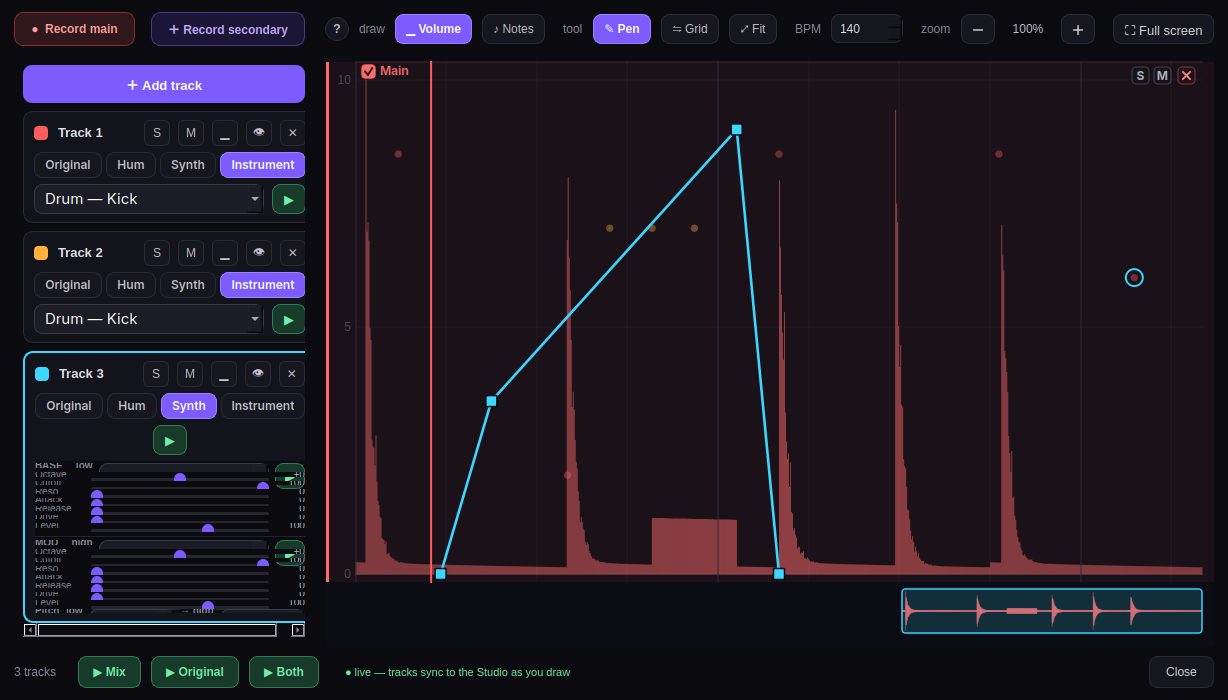
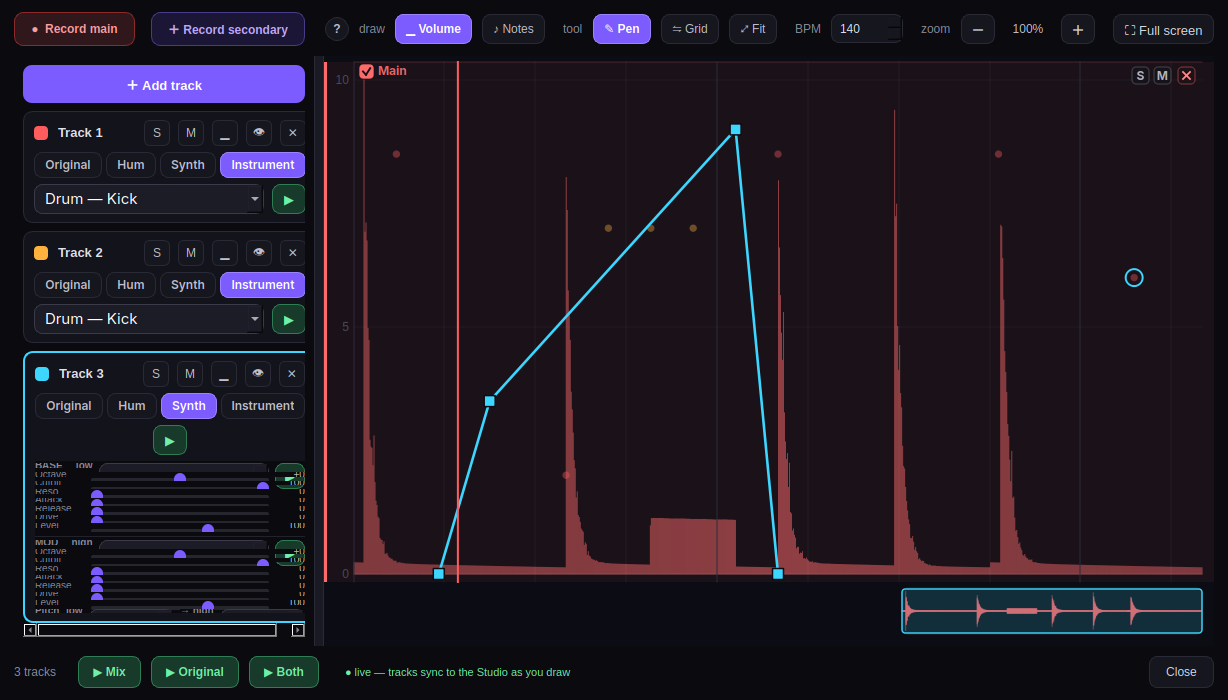
Draggable dividers: resize the track list vs canvas on both windows
The separator's track-list/soundwave divider was a fixed 300px that cropped the wave;
the Studio's header column was likewise fixed. Both are now DRAGGABLE splitters:
- Separator: track list ↔ canvas is a QSplitter (grab the handle to widen either side).
- Studio: the header column ↔ timeline is a horizontal splitter of two stacked panes
  (corner+headers | ruler+timeline), so dragging resizes both rows together and the
  ruler stays aligned with the timeline. Headers/CornerBox no longer fixed-width;
  TrackHeaders already reflows to its width.

Claude-Session: https://claude.ai/code/session_01Nx2xvCEFwoY9ya5yMQUNJ7

diff --git a/desktop/beatstudio/mainwindow.py b/desktop/beatstudio/mainwindow.py
@@ -56,7 +56,7 @@ _MYSOUNDS_DIR = os.path.join(_HERE, "mysounds")
 class CornerBox(QFrame):
     def __init__(self):
         super().__init__()
-        self.setFixedSize(theme.HEADER_W, theme.RULER_H)
+        self.setFixedHeight(theme.RULER_H)      # width follows the header column (draggable splitter)
 
     def paintEvent(self, _):
         p = QPainter(self)
@@ -86,16 +86,29 @@ class MainWindow(QMainWindow):
         self.toolbar = Toolbar(self.project)
 
         grid_host = QWidget()
-        g = QGridLayout(grid_host); g.setContentsMargins(16, 8, 16, 16); g.setSpacing(0)
+        g = QVBoxLayout(grid_host); g.setContentsMargins(16, 8, 16, 16); g.setSpacing(0)
         self.timeline = TimelineView(self.project)
         self.ruler = Ruler(self.timeline)
         self.headers = TrackHeaders(self.project, self.timeline)
-        g.addWidget(CornerBox(), 0, 0)
-        g.addWidget(self.ruler, 0, 1)
-        g.addWidget(self.headers, 1, 0)
-        g.addWidget(self.timeline, 1, 1)
-        g.setColumnStretch(1, 1); g.setRowStretch(1, 1)
-        # panel frame around the grid
+        self.headers.setMinimumWidth(170)              # was a fixed 300 — now the divider is draggable
+        # LEFT pane = corner + track headers (stacked); RIGHT pane = ruler + timeline (stacked). A
+        # DRAGGABLE horizontal splitter between them resizes BOTH rows together, so the ruler stays
+        # aligned with the timeline and the corner with the headers.
+        left = QWidget(); lv = QVBoxLayout(left); lv.setContentsMargins(0, 0, 0, 0); lv.setSpacing(0)
+        self._corner = CornerBox(); self._corner.setMinimumWidth(0)
+        lv.addWidget(self._corner); lv.addWidget(self.headers, 1)
+        right = QWidget(); rv = QVBoxLayout(right); rv.setContentsMargins(0, 0, 0, 0); rv.setSpacing(0)
+        rv.addWidget(self.ruler); rv.addWidget(self.timeline, 1)
+        self.timeline.setMinimumWidth(320)
+        self._grid_split = QSplitter(Qt.Horizontal)
+        self._grid_split.addWidget(left); self._grid_split.addWidget(right)
+        self._grid_split.setStretchFactor(0, 0); self._grid_split.setStretchFactor(1, 1)
+        self._grid_split.setCollapsible(0, False); self._grid_split.setCollapsible(1, False)
+        self._grid_split.setHandleWidth(7); self._grid_split.setSizes([300, 1000])
+        self._grid_split.setStyleSheet(
+            "QSplitter::handle{background:#14141c;border-left:1px solid #262630;border-right:1px solid #262630;}"
+            "QSplitter::handle:hover{background:#242430;}")
+        g.addWidget(self._grid_split, 1)
         grid_host.setStyleSheet("")
         self._grid_host = grid_host
         # The Studio pane = its toolbar + grid kept TOGETHER, so in one-screen mode the toolbar

diff --git a/desktop/beatstudio/separationboard.py b/desktop/beatstudio/separationboard.py
@@ -19,7 +19,7 @@ from __future__ import annotations
 import numpy as np
 from PySide6.QtWidgets import (QVBoxLayout, QHBoxLayout, QLabel, QPushButton,
                                QWidget, QComboBox, QScrollArea, QFrame, QLineEdit, QSizePolicy,
-                               QSpinBox, QSlider, QToolTip, QGraphicsOpacityEffect)
+                               QSpinBox, QSlider, QToolTip, QGraphicsOpacityEffect, QSplitter)
 from PySide6.QtCore import Qt, QPointF, QRectF, Signal, QTimer, QElapsedTimer, QEvent
 from PySide6.QtGui import QPainter, QColor, QPen, QBrush, QPainterPath
 
@@ -1675,7 +1675,6 @@ class SeparationBoard(QWidget):
         top.addWidget(self.b_full)
         root.addLayout(top)
 
-        mid = QHBoxLayout(); mid.setSpacing(12)
         self.canvas = CurveCanvas(self.buf, sr, self.bpm, self.tracks)
         self.canvas.set_takes(self.takes)                # share the board's take rows (matching ids)
         self.canvas.active_changed.connect(self._on_canvas_active)
@@ -1700,10 +1699,20 @@ class SeparationBoard(QWidget):
         self._list_host = QWidget(); self._list = QVBoxLayout(self._list_host)
         self._list.setSpacing(8); self._list.setContentsMargins(0, 0, 4, 0); self._list.addStretch(1)
         scroll.setWidget(self._list_host); side.addWidget(scroll, 1)
-        sw = QWidget(); sw.setLayout(side); sw.setFixedWidth(300)
-        mid.addWidget(sw)                 # track list on the LEFT — every menu in the app is left-side
-        mid.addWidget(self.canvas, 1)
-        root.addLayout(mid, 1)
+        sw = QWidget(); sw.setLayout(side); sw.setMinimumWidth(210); sw.setMaximumWidth(620)
+        # DRAGGABLE divider between the track list and the soundwave canvas (was a fixed 300px, which
+        # cropped the wave). Grab the handle to widen either side.
+        self._mid_split = QSplitter(Qt.Horizontal)
+        self.canvas.setMinimumWidth(320)
+        self._mid_split.addWidget(sw)                  # track list on the LEFT — every menu is left-side
+        self._mid_split.addWidget(self.canvas)
+        self._mid_split.setStretchFactor(0, 0); self._mid_split.setStretchFactor(1, 1)
+        self._mid_split.setCollapsible(0, False); self._mid_split.setCollapsible(1, False)
+        self._mid_split.setHandleWidth(8); self._mid_split.setSizes([300, 900])
+        self._mid_split.setStyleSheet(
+            "QSplitter::handle{background:#1a1a24;border-left:1px solid #2a2a36;border-right:1px solid #2a2a36;}"
+            "QSplitter::handle:hover{background:#2a2a3a;}")
+        root.addWidget(self._mid_split, 1)
 
         btns = QHBoxLayout()
         self.count = QLabel("0 tracks"); self.count.setStyleSheet("color:#8a8a99;font-size:12px;")

diff --git a/desktop/beatstudio/headers.py b/desktop/beatstudio/headers.py
@@ -24,7 +24,7 @@ class TrackHeaders(QWidget):
         self.project = project
         self.timeline = timeline
         self.recording_lane = None      # lane id currently recording (row glows red)
-        self.setFixedWidth(theme.HEADER_W)
+        self.setMinimumWidth(170)       # width now driven by the draggable splitter (was fixed 300)
         self._hit = []      # list of (QRectF, lane_id, action)
 
     def y_offset(self) -> int: